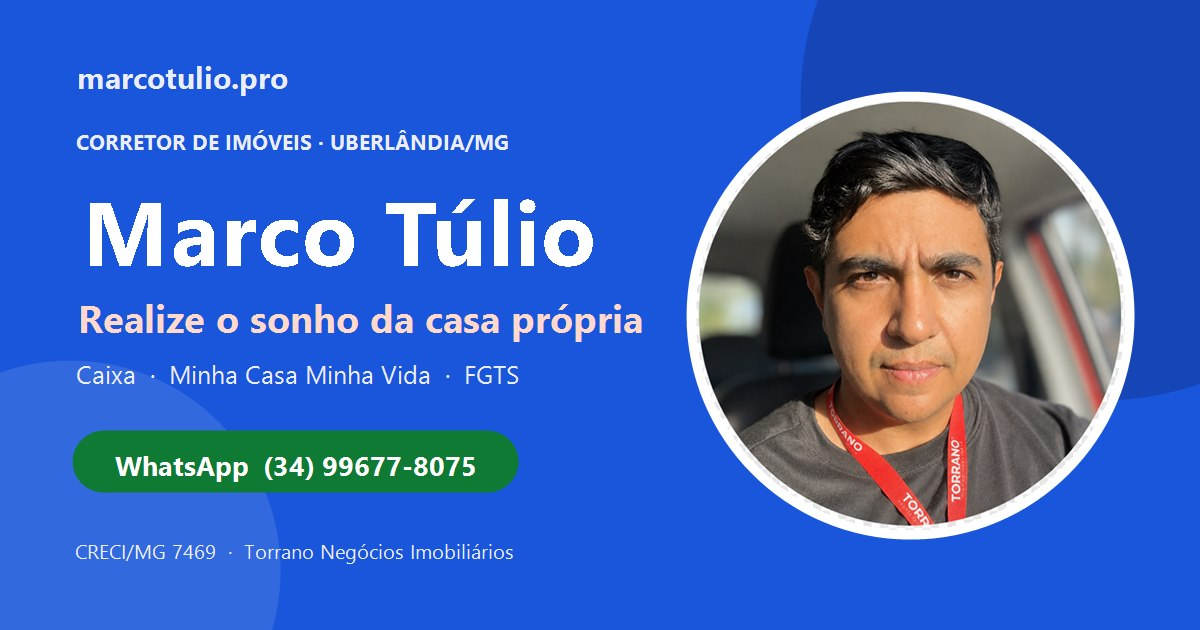
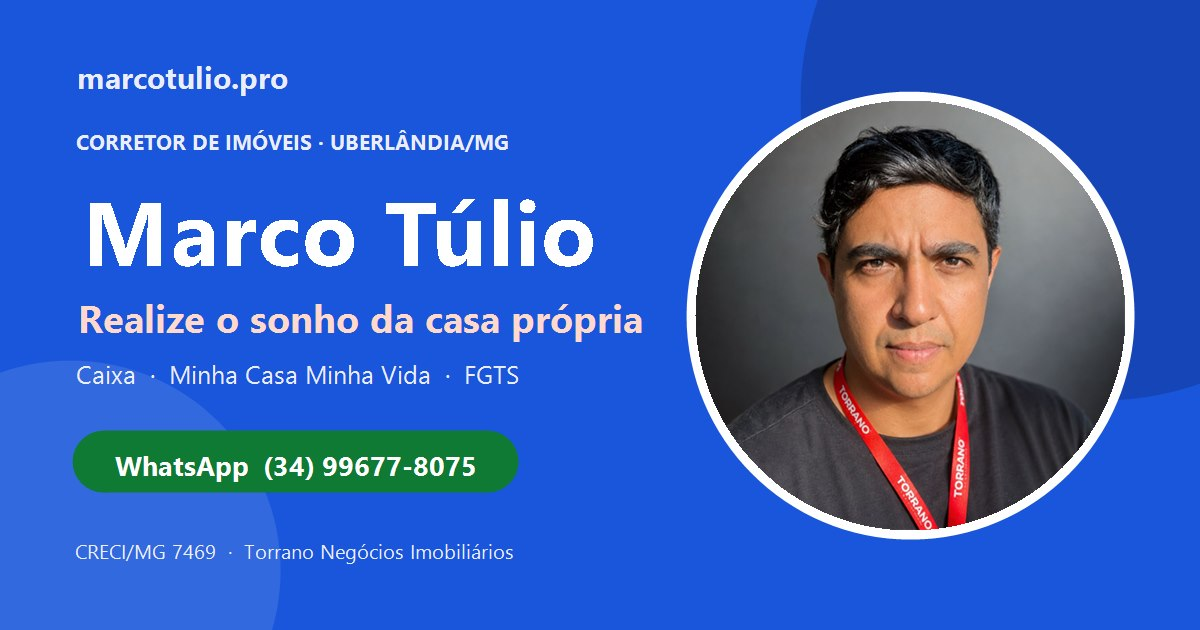
Foto nova (headshot), OG atualizada e post MCMV 2026 com tabela e imagens da Caixa
- Troca a foto do carro pelo headshot profissional (img/marco.png) em home, Sobre e OG image
- Novo post minha-casa-minha-vida-2026-novas-regras com a tabela real 2026 (faixas, renda ate R$13mil, imoveis ate R$600mil), juros e o que mudou, + 2 imagens da Caixa
- Schema Article + FAQPage + BreadcrumbList; estilos de tabela/figura no article.css
- Destaque no blog.html, na home e no sitemap

Changed region(s): [[0.555, 0.1508, 0.9558, 0.8444]]

diff --git a/blog/minha-casa-minha-vida-2026-novas-regras.html b/blog/minha-casa-minha-vida-2026-novas-regras.html
@@ -1,0 +1,175 @@
+<!DOCTYPE html>
+<html lang="pt-BR" class="no-js">
+<head>
+<meta charset="UTF-8">
+<meta name="viewport" content="width=device-width, initial-scale=1.0, viewport-fit=cover">
+<script>document.documentElement.className="js";</script>
+<link rel="icon" type="image/svg+xml" href="/favicon.svg">
+<link rel="icon" type="image/x-icon" href="/favicon.ico">
+<link rel="apple-touch-icon" sizes="180x180" href="/apple-touch-icon.png">
+<link rel="manifest" href="/site.webmanifest">
+<meta name="theme-color" content="#1A56DB">
+<title>Minha Casa Minha Vida 2026: novas regras e tabela | Marco Túlio</title>
+<meta name="description" content="Minha Casa Minha Vida 2026: a nova tabela (faixas, renda até R$ 13 mil, imóveis até R$ 600 mil), os juros e o que mudou na prática — explicado sem juridiquês por um corretor de Uberlândia.">
+<meta name="keywords" content="minha casa minha vida 2026, tabela minha casa minha vida 2026, faixas MCMV 2026, renda minha casa minha vida, juros minha casa minha vida 2026, MCMV Uberlândia, financiamento Caixa 2026, Faixa 4 Classe Média">
+<meta name="author" content="Marco Túlio Andrade Freitas">
+<meta name="robots" content="index, follow, max-image-preview:large">
+<link rel="canonical" href="https://marcotulio.pro/blog/minha-casa-minha-vida-2026-novas-regras">
+<meta property="og:type" content="article">
+<meta property="og:url" content="https://marcotulio.pro/blog/minha-casa-minha-vida-2026-novas-regras">
+<meta property="og:title" content="Minha Casa Minha Vida 2026: novas regras e tabela">
+<meta property="og:description" content="A nova tabela do MCMV 2026 (faixas, renda até R$ 13 mil, imóveis até R$ 600 mil), os juros e o que mudou na prática — sem juridiquês.">
+<meta property="og:image" content="https://marcotulio.pro/blog/img/mcmv-2026-caixa.jpg">
+<meta property="og:locale" content="pt_BR">
+<meta property="article:published_time" content="2026-06-15">
+<meta name="twitter:card" content="summary_large_image">
+<meta name="twitter:title" content="Minha Casa Minha Vida 2026: novas regras e tabela">
+<meta name="twitter:description" content="A nova tabela do MCMV 2026, os juros e o que mudou na prática — sem juridiquês.">
+<meta name="twitter:image" content="https://marcotulio.pro/blog/img/mcmv-2026-caixa.jpg">
+<link rel="preconnect" href="https://fonts.googleapis.com">
+<link rel="preconnect" href="https://fonts.gstatic.com" crossorigin>
+<link href="https://fonts.googleapis.com/css2?family=Bricolage+Grotesque:opsz,wght@12..96,600;12..96,700;12..96,800&family=Hanken+Grotesk:wght@400;600;700&display=swap" rel="stylesheet">
+<link rel="stylesheet" href="/blog/article.css">
+<script type="application/ld+json">
+{
+  "@context": "https://schema.org",
+  "@type": "Article",
+  "mainEntityOfPage": {"@type": "WebPage", "@id": "https://marcotulio.pro/blog/minha-casa-minha-vida-2026-novas-regras"},
+  "headline": "Minha Casa Minha Vida 2026: entenda as novas regras sem juridiquês",
+  "description": "A nova tabela do Minha Casa Minha Vida 2026 (faixas, renda e valores), os juros e o que mudou na prática.",
+  "datePublished": "2026-06-15",
+  "dateModified": "2026-06-15",
+  "author": {"@type": "Person", "name": "Marco Túlio Andrade Freitas", "url": "https://marcotulio.pro/sobre", "jobTitle": "Corretor de Imóveis"},
+  "publisher": {"@type": "Person", "name": "Marco Túlio Andrade Freitas", "url": "https://marcotulio.pro"},
+  "image": "https://marcotulio.pro/blog/img/mcmv-2026-caixa.jpg",
+  "articleSection": "Minha Casa Minha Vida",
+  "inLanguage": "pt-BR",
+  "url": "https://marcotulio.pro/blog/minha-casa-minha-vida-2026-novas-regras"
+}
+</script>
+<script type="application/ld+json">
+{
+  "@context": "https://schema.org",
+  "@type": "FAQPage",
+  "mainEntity": [
+    {"@type": "Question", "name": "Qual a renda máxima do Minha Casa Minha Vida em 2026?", "acceptedAnswer": {"@type": "Answer", "text": "Em 2026 o programa atende famílias com renda bruta mensal de até R$ 13 mil, incluindo a Faixa 4 — Classe Média (de R$ 9.600,01 a R$ 13.000)."}},
+    {"@type": "Question", "name": "Qual o valor máximo do imóvel no MCMV 2026?", "acceptedAnswer": {"@type": "Answer", "text": "Depende da faixa: até R$ 275 mil nas Faixas 1 e 2, até R$ 400 mil na Faixa 3 e até R$ 600 mil na Faixa 4 (Classe Média)."}},
+    {"@type": "Question", "name": "O que mudou no Minha Casa Minha Vida em 2026?", "acceptedAnswer": {"@type": "Answer", "text": "A Faixa 3 passou a ir até R$ 9.600 (antes R$ 8.600) com imóvel de até R$ 400 mil (antes R$ 350 mil), e a Faixa 4 subiu para renda de até R$ 13 mil com imóvel de até R$ 600 mil (antes R$ 500 mil). Mais famílias passaram a se enquadrar."}},
+    {"@type": "Question", "name": "Quais são os juros do Minha Casa Minha Vida 2026?", "acceptedAnswer": {"@type": "Answer", "text": "Conforme a tabela da Caixa, na Habitação Popular (renda até R$ 9,6 mil) os juros nominais vão de 4,00% a 8,16% ao ano; na Faixa 4 — Classe Média, a taxa indicada é de 10,00% ao ano. O prazo chega a 420 meses e pode haver redutor de 0,5% para cotistas do FGTS. As condições podem mudar; confirme na simulação."}},
+    {"@type": "Question", "name": "Dá para financiar qualquer imóvel pelo MCMV?", "acceptedAnswer": {"@type": "Answer", "text": "Não. O imóvel precisa se enquadrar nas regras do programa (valor da faixa, localização, tipo de operação e análise da Caixa). Também pesam a renda, o histórico financeiro, o comprometimento mensal e a documentação do comprador."}},
+    {"@type": "Question", "name": "Como descubro a minha faixa no Minha Casa Minha Vida?", "acceptedAnswer": {"@type": "Answer", "text": "Fazendo uma simulação. A partir da sua renda familiar, você descobre a faixa, o subsídio possível e a parcela aproximada. É o primeiro passo, antes mesmo de escolher o imóvel."}}
+  ]
+}
+</script>
+<script type="application/ld+json">
+{
+  "@context": "https://schema.org",
+  "@type": "BreadcrumbList",
+  "itemListElement": [
+    {"@type": "ListItem", "position": 1, "name": "Início", "item": "https://marcotulio.pro/"},
+    {"@type": "ListItem", "position": 2, "name": "Blog", "item": "https://marcotulio.pro/blog"},
+    {"@type": "ListItem", "position": 3, "name": "Minha Casa Minha Vida 2026", "item": "https://marcotulio.pro/blog/minha-casa-minha-vida-2026-novas-regras"}
+  ]
+}
+</script>
+</head>
+<body>
+<a href="#conteudo" class="skip">Pular para o conteúdo</a>
+<header class="nav" id="nav">
+  <div class="wrap nav-in">
+    <a href="/" class="logo">marco<b>tulio</b>.pro</a>
+    <div class="nav-right">
+      <a href="/blog" class="nav-back">← <span>Voltar ao blog</span></a>
+      <a href="https://wa.me/5534996778075?text=Ol%C3%A1%20Marco%20T%C3%BAlio!%20Quero%20entender%20as%20novas%20regras%20do%20Minha%20Casa%20Minha%20Vida%202026." target="_blank" rel="noopener" class="btn btn-zap"><svg viewBox="0 0 32 32" fill="currentColor" aria-hidden="true"><path d="M16 3C9.4 3 4 8.4 4 15c0 2.1.6 4.1 1.6 5.9L4 29l8.3-1.6c1.7.9 3.7 1.4 5.7 1.4 6.6 0 12-5.4 12-12S22.6 3 16 3zm0 21.8c-1.8 0-3.5-.5-5-1.4l-.4-.2-4.9 1 1-4.8-.2-.4c-1-1.6-1.5-3.4-1.5-5.3 0-5.5 4.5-10 10-10s10 4.5 10 10-4.5 10-10 10z"/></svg> WhatsApp</a>
+    </div>
+  </div>
+</header>
+<main id="conteudo" class="article">
+  <div class="wrap">
+    <nav class="breadcrumb" aria-label="Trilha de navegação"><a href="/">Início</a> › <a href="/blog">Blog</a> › <span>Minha Casa Minha Vida 2026</span></nav>
+    <header class="art-head">
+      <span class="kicker">Novas regras · 2026</span>
+      <h1>Minha Casa Minha Vida 2026: entenda as novas regras sem juridiquês</h1>
+      <p class="art-sub">A nova tabela (faixas, renda e valores), os juros e o que mudou na prática — explicado de um jeito simples por um corretor de Uberlândia.</p>
+      <div class="art-meta">
+        <span class="who"><span class="av">MT</span> Marco Túlio</span>
+        <span class="dot">·</span>
+        <time datetime="2026-06-15">15 de junho de 2026</time>
+        <span class="dot">·</span>
+        <span>⏱ 7 min de leitura</span>
+      </div>
+    </header>
+    <figure style="max-width:940px;margin:0 auto 36px">
+      <img src="/blog/img/mcmv-2026-caixa.jpg" alt="Tabela do Minha Casa Minha Vida 2026: Faixa 1 até R$ 3.200, Faixa 2 até R$ 5.000, Faixa 3 até R$ 9.600, Faixa 4 até R$ 13.000; imóveis de até R$ 600 mil na Faixa 4" width="1200" height="675" style="width:100%;border-radius:var(--r-lg);display:block;border:1px solid var(--nevoa)">
+    </figure>
+    <article class="prose">
+      <p>Comprar um imóvel pelo <strong>Minha Casa Minha Vida</strong> ficou um pouco mais interessante em 2026. E vou te explicar de um jeito simples, direto e sem aquele papo travado de banco.</p>
+      <p>Pensa assim: o programa funciona como uma <strong>"escada"</strong>. Quanto menor a renda da família, melhores tendem a ser as condições — juros menores e possibilidade de subsídio. Com as novas regras, essa escada ficou <em>mais larga</em>: mais famílias entram no programa e alguns imóveis de valor maior também passaram a se enquadrar.</p>
+      <p>A Caixa começou a operar as novas condições em <strong>abril de 2026</strong>, depois da atualização dos limites de renda e dos valores máximos dos imóveis financiáveis. Agora, o Minha Casa Minha Vida atende famílias com renda mensal de <strong>até R$ 13 mil</strong>, incluindo a chamada <strong>Faixa 4 — Classe Média</strong>.</p>
+
+      <h2>Tabela atualizada do <em>Minha Casa Minha Vida 2026</em></h2>
+      <div class="table-wrap">
+        <table>
+          <thead><tr><th scope="col">Faixa</th><th scope="col">Renda familiar bruta mensal</th><th scope="col">Valor máximo do imóvel</th></tr></thead>
+          <tbody>
+            <tr><td>Faixa 1</td><td>até R$ 3.200</td><td>até R$ 275 mil</td></tr>
+            <tr><td>Faixa 2</td><td>R$ 3.200,01 a R$ 5.000</td><td>até R$ 275 mil</td></tr>
+            <tr><td>Faixa 3</td><td>R$ 5.000,01 a R$ 9.600</td><td>até R$ 400 mil</td></tr>
+            <tr><td>Faixa 4 — Classe Média</td><td>R$ 9.600,01 a R$ 13.000</td><td>até R$ 600 mil</td></tr>
+          </tbody>
+        </table>
+      </div>
+      <p>Esses valores representam a nova tabela divulgada pela Caixa para 2026. Antes, a Faixa 3 ia até R$ 8.600 e imóvel de até R$ 350 mil; agora vai até R$ 9.600 e imóvel de até R$ 400 mil. Já a Faixa 4 subiu de renda até R$ 12 mil para até R$ 13 mil, e o teto do imóvel passou de R$ 500 mil para R$ 600 mil.</p>
+
+      <h2>E os <em>juros</em>, como ficam?</h2>
+      <p>Aqui entra o ponto que muita gente ignora: não é só "aprovar ou não aprovar". O segredo é entender em qual faixa você cai, porque isso muda o custo do financiamento.</p>
+      <p>Na linha de Habitação Popular do MCMV, para renda de até R$ 9,6 mil, a tabela da Caixa indica juros nominais de <strong>4,00% a 8,16% ao ano</strong>, com prazo de até <strong>420 meses</strong>. Para a Faixa 4 — Classe Média, a taxa indicada é de <strong>10,00% ao ano</strong>, também com prazo máximo de até 420 meses. A própria tabela da Caixa informa que pode haver <strong>redutor de 0,5%</strong> para cotistas do FGTS, conforme a regra aplicável ao caso.</p>
+      <blockquote>Duas famílias podem olhar o mesmo apartamento e ter resultados bem diferentes na simulação. Por isso, simulação bem feita não é detalhe — é o começo do jogo.</blockquote>
+      <div class="callout"><strong>Antes de tudo, simule.</strong> A faixa em que você cai muda juros, subsídio e o valor que a Caixa financia. Descubra a sua em minutos no <a href="https://simulador.marcotulio.pro" target="_blank" rel="noopener">simulador de financiamento</a> — ou <a href="https://wa.me/5534996778075?text=Ol%C3%A1%20Marco!%20Quero%20descobrir%20em%20qual%20faixa%20do%20Minha%20Casa%20Minha%20Vida%20eu%20me%20encaixo." target="_blank" rel="noopener">me manda sua renda no WhatsApp</a> que eu calculo com você.</div>
+
+      <figure>
+        <img src="/blog/img/atendimento-caixa.jpg" alt="Casal sendo atendido por uma consultora da Caixa para financiar o imóvel pelo Minha Casa Minha Vida" width="1200" height="675" loading="lazy" decoding="async">
+        <figcaption>Entender a sua faixa antes de escolher o imóvel é o que evita frustração na hora da aprovação.</figcaption>
+      </figure>
+
+      <h2>O que mudou na <em>prática</em>?</h2>
+      <p>A principal mudança é que <strong>mais famílias passaram a caber dentro do programa</strong>. Uma família que antes ficava "apertada" em uma faixa mais cara pode, com a nova tabela, cair em uma faixa melhor e ter acesso a condições mais vantajosas.</p>
+      <p>Exemplo simples: uma renda perto de R$ 4.900 antes podia cair em uma condição menos favorável. Agora, com a Faixa 2 indo até R$ 5.000, essa família pode ter acesso a juros menores e uma capacidade de financiamento melhor, dependendo da análise de crédito. O Governo Federal destacou que essa atualização deve beneficiar milhares de famílias com redução de taxa e ampliação de acesso ao financiamento.</p>
+
+      <h2>Dá para financiar <em>qualquer</em> imóvel?</h2>
+      <p>Não. E aqui é onde muita gente se frustra. O imóvel precisa se enquadrar nas regras do programa: no valor permitido para a faixa, na localização, no tipo de operação e na análise da Caixa. Além disso, a renda, o histórico financeiro, o comprometimento mensal e a documentação do comprador também pesam.</p>
+      <p>Ou seja: não basta falar "quero comprar pelo Minha Casa Minha Vida". Tem que cruzar três coisas:</p>
+      <ul>
+        <li>a sua <strong>renda</strong>;</li>
+        <li>o <strong>imóvel certo</strong> (dentro da faixa);</li>
+        <li>a <strong>aprovação de crédito</strong>.</li>
+      </ul>
+      <p>Quando esses três pontos conversam bem, o financiamento começa a fazer sentido. Se quiser entender o caminho completo — do cadastro à chave —, leia também o meu <a href="/blog/comprar-apartamento-minha-casa-minha-vida-uberlandia">guia de como comprar pelo Minha Casa Minha Vida em Uberlândia</a>.</p>
+
+      <h2>Minha visão direta</h2>
+      <p>O Minha Casa Minha Vida 2026 ficou mais moderno no sentido de acompanhar melhor a realidade dos preços dos imóveis e da renda das famílias. Não resolveu tudo, claro. Ainda tem análise, documentação, entrada, score, regra de FGTS e limite de prestação. Mas abriu uma janela melhor para muita gente que estava quase ficando de fora.</p>
+      <p>E se você é da geração Z, millennial ou só alguém cansado de pagar aluguel, pensa assim: comprar imóvel não é sobre "ficar rico do dia pra noite". É sobre parar de jogar dinheiro no modo aleatório e começar a construir patrimônio com estratégia.</p>
+      <p>O primeiro passo não é escolher o apartamento mais bonito. O primeiro passo é descobrir <strong>qual é a sua faixa</strong>, quanto você aprova e qual imóvel encaixa sem sufocar sua vida financeira. Porque casa própria boa não é a que aparece no feed — é a que cabe no bolso, aprova no banco e faz sentido para a sua próxima fase de vida.</p>
+      <p><em>As regras, taxas e tetos do programa podem ser atualizados pela Caixa e pelo Governo Federal. Use este conteúdo como orientação e confirme os valores vigentes na simulação ou comigo.</em></p>
+    </article>
+    <aside class="art-cta">
+      <h2>Quer descobrir a sua faixa no Minha Casa Minha Vida?</h2>
+      <p>Me manda sua renda aproximada no WhatsApp. Eu confirmo sua faixa, simulo o financiamento e te mostro os imóveis que cabem no seu bolso — sem compromisso.</p>
+      <a href="https://wa.me/5534996778075?text=Ol%C3%A1%20Marco%20T%C3%BAlio!%20Vi%20o%20post%20do%20Minha%20Casa%20Minha%20Vida%202026%20e%20quero%20descobrir%20a%20minha%20faixa." target="_blank" rel="noopener" class="btn btn-zap"><svg viewBox="0 0 32 32" fill="currentColor" aria-hidden="true"><path d="M16 3C9.4 3 4 8.4 4 15c0 2.1.6 4.1 1.6 5.9L4 29l8.3-1.6c1.7.9 3.7 1.4 5.7 1.4 6.6 0 12-5.4 12-12S22.6 3 16 3zm0 21.8c-1.8 0-3.5-.5-5-1.4l-.4-.2-4.9 1 1-4.8-.2-.4c-1-1.6-1.5-3.4-1.5-5.3 0-5.5 4.5-10 10-10s10 4.5 10 10-4.5 10-10 10z"/></svg> Descobrir minha faixa</a>
+    </aside>
+    <div class="art-back"><a href="/blog">← Ver todos os artigos</a></div>
+  </div>
+</main>
+<footer>
+  <div class="wrap foot-in">
+    <div class="foot-logo">marco<b>tulio</b>.pro</div>
+    <p>Corretor parceiro da Torrano Negócios Imobiliários LTDA · CRECI/MG nº 7469 · Uberlândia/MG</p>
+    <p><a href="/">Início</a> · <a href="/blog">Blog</a> · <a href="https://wa.me/5534996778075" target="_blank" rel="noopener">WhatsApp</a></p>
+  </div>
+</footer>
+<a href="https://wa.me/5534996778075?text=Ol%C3%A1%20Marco%20T%C3%BAlio!%20Vim%20pelo%20post%20do%20MCMV%202026." class="wa-float" aria-label="Falar no WhatsApp"><svg viewBox="0 0 32 32" fill="currentColor" aria-hidden="true"><path d="M16 3C9.4 3 4 8.4 4 15c0 2.1.6 4.1 1.6 5.9L4 29l8.3-1.6c1.7.9 3.7 1.4 5.7 1.4 6.6 0 12-5.4 12-12S22.6 3 16 3zm0 21.8c-1.8 0-3.5-.5-5-1.4l-.4-.2-4.9 1 1-4.8-.2-.4c-1-1.6-1.5-3.4-1.5-5.3 0-5.5 4.5-10 10-10s10 4.5 10 10-4.5 10-10 10z"/></svg></a>
+<script>
+(function(){var n=document.getElementById('nav');var f=function(){n.classList.toggle('scrolled',window.scrollY>10)};f();window.addEventListener('scroll',f,{passive:true});})();
+</script>
+</body>
+</html>

diff --git a/blog.html b/blog.html
@@ -471,6 +471,19 @@
         <span style="font-size:11px;font-weight:700;color:var(--muted);letter-spacing:0.1em;text-transform:uppercase;">🏠 Empreendimentos econômicos em Uberlândia</span>
       </div>
 
+      <!-- DESTAQUE: MCMV 2026 NOVAS REGRAS -->
+      <article class="post-card featured reveal" itemscope itemtype="https://schema.org/Article">
+        <div class="post-thumb-placeholder" style="padding:0;overflow:hidden;min-height:220px"><img src="/blog/img/mcmv-2026-caixa.jpg" alt="Tabela do Minha Casa Minha Vida 2026" style="width:100%;height:100%;object-fit:cover;display:block"></div>
+        <div class="post-body">
+          <span class="featured-badge">Novidade · 2026</span>
+          <span class="post-category" itemprop="articleSection">Minha Casa Minha Vida</span>
+          <h2 class="post-title"><a href="/blog/minha-casa-minha-vida-2026-novas-regras" itemprop="headline">Minha Casa Minha Vida 2026: novas regras e tabela (sem juridiquês)</a></h2>
+          <div class="post-meta"><time datetime="2026-06-15" itemprop="datePublished">15 de junho de 2026</time><span class="dot">·</span><span class="reading-time">⏱ 7 min de leitura</span></div>
+          <p class="post-excerpt" itemprop="description">A nova tabela do MCMV 2026 (faixas, renda até R$ 13 mil, imóveis até R$ 600 mil), os juros e o que mudou na prática — explicado sem juridiquês.</p>
+          <div class="post-footer"><div class="author-chip" itemprop="author" itemscope itemtype="https://schema.org/Person"><div class="author-chip-avatar">MT</div><span class="author-chip-name" itemprop="name">Marco Túlio</span></div><a href="/blog/minha-casa-minha-vida-2026-novas-regras" class="read-more">Ler o artigo <span>→</span></a></div>
+        </div>
+      </article>
+
       <!-- GUIA MCMV (destaque) -->
       <article class="post-card featured reveal" itemscope itemtype="https://schema.org/Article">
         <div class="post-thumb-placeholder" style="background:linear-gradient(135deg,#11399E 0%,#1A56DB 100%);">🏢</div>

diff --git a/blog/article.css b/blog/article.css
@@ -68,6 +68,15 @@ img{max-width:100%;display:block}
 .prose blockquote{margin:28px 0;padding:20px 24px;background:var(--azul-claro);border-radius:var(--r-md);font-size:1.18rem;color:var(--azul-profundo);font-weight:500}
 .prose .callout{margin:28px 0;padding:22px 24px;background:var(--superficie);border:1px solid var(--nevoa);border-radius:var(--r-lg);box-shadow:var(--lift)}
 .prose .callout strong{color:var(--azul-profundo)}
+.prose figure{margin:30px 0}
+.prose figure img{width:100%;border-radius:var(--r-lg);display:block;border:1px solid var(--nevoa)}
+.prose figure figcaption{font-size:.9rem;color:var(--tinta-suave);margin-top:10px;text-align:center}
+.prose .table-wrap{overflow-x:auto;margin:30px 0;border:1px solid var(--nevoa);border-radius:var(--r-md)}
+.prose table{width:100%;border-collapse:collapse;font-size:1rem;min-width:460px}
+.prose thead th{background:var(--azul);color:#fff;font-weight:700;text-align:left;padding:13px 16px;font-size:.95rem}
+.prose tbody td{padding:13px 16px;border-top:1px solid var(--nevoa);color:#21314a}
+.prose tbody tr:nth-child(even){background:var(--azul-claro)}
+.prose tbody td:first-child{font-weight:700;color:var(--azul-profundo)}
 
 /* cta */
 .art-cta{max-width:760px;margin:48px auto 0;background:var(--azul);color:#fff;border-radius:var(--r-lg);padding:clamp(28px,5vw,44px);text-align:center;position:relative;overflow:hidden}

diff --git a/index.html b/index.html
@@ -566,6 +566,10 @@
       <a href="/blog" class="hub-link">ver todos os artigos →</a>
     </div>
     <div class="blog">
+      <a href="/blog/minha-casa-minha-vida-2026-novas-regras.html" class="post reveal">
+        <div class="post-img" style="padding:0;overflow:hidden"><img src="/blog/img/mcmv-2026-caixa.jpg" alt="Tabela do Minha Casa Minha Vida 2026" style="width:100%;height:100%;object-fit:cover" loading="lazy"></div>
+        <div class="post-b"><div class="post-cat">Minha Casa Minha Vida</div><h3>MCMV 2026: novas regras e tabela (sem juridiquês)</h3><span class="hub-link">ler artigo →</span></div>
+      </a>
       <a href="/blog/copa-2026-comprar-imovel-uberlandia.html" class="post reveal">
         <div class="post-img"><span style="font-size:48px;line-height:1">⚽</span></div>
         <div class="post-b"><div class="post-cat">Mercado Imobiliário</div><h3>Copa 2026: por que comprar imóvel em Uberlândia agora</h3><span class="hub-link">ler artigo →</span></div>
